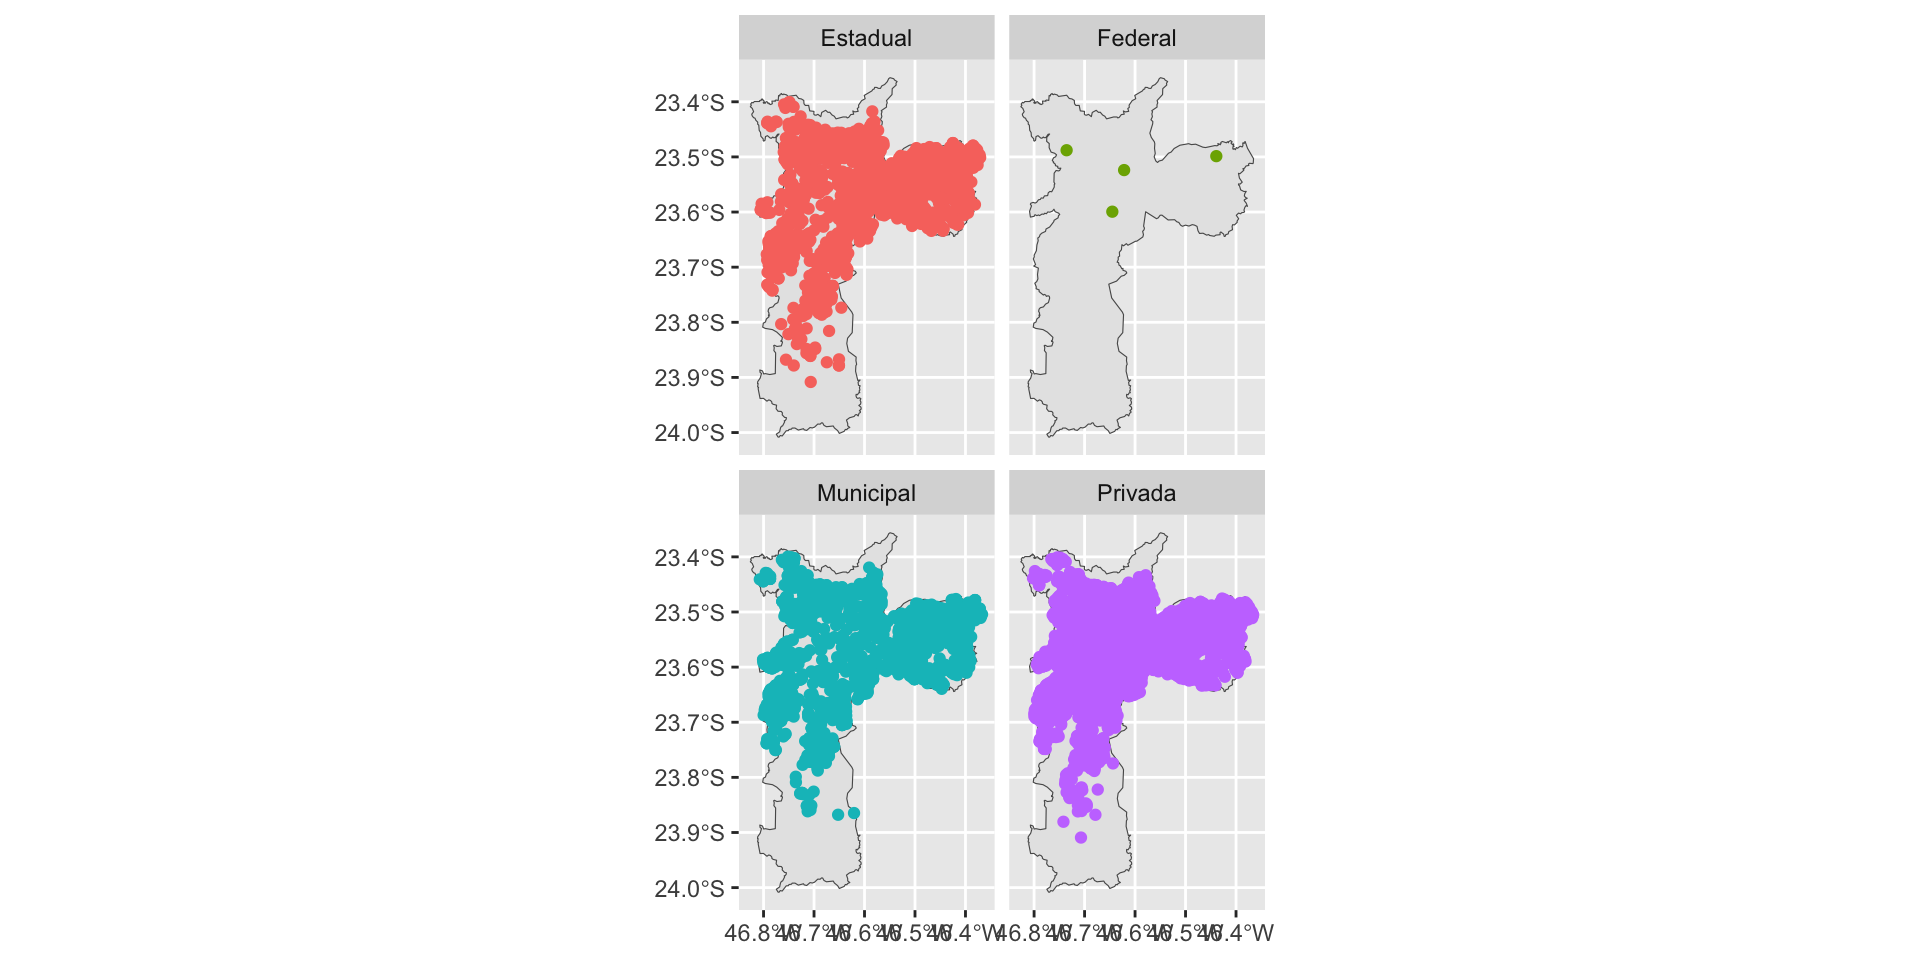
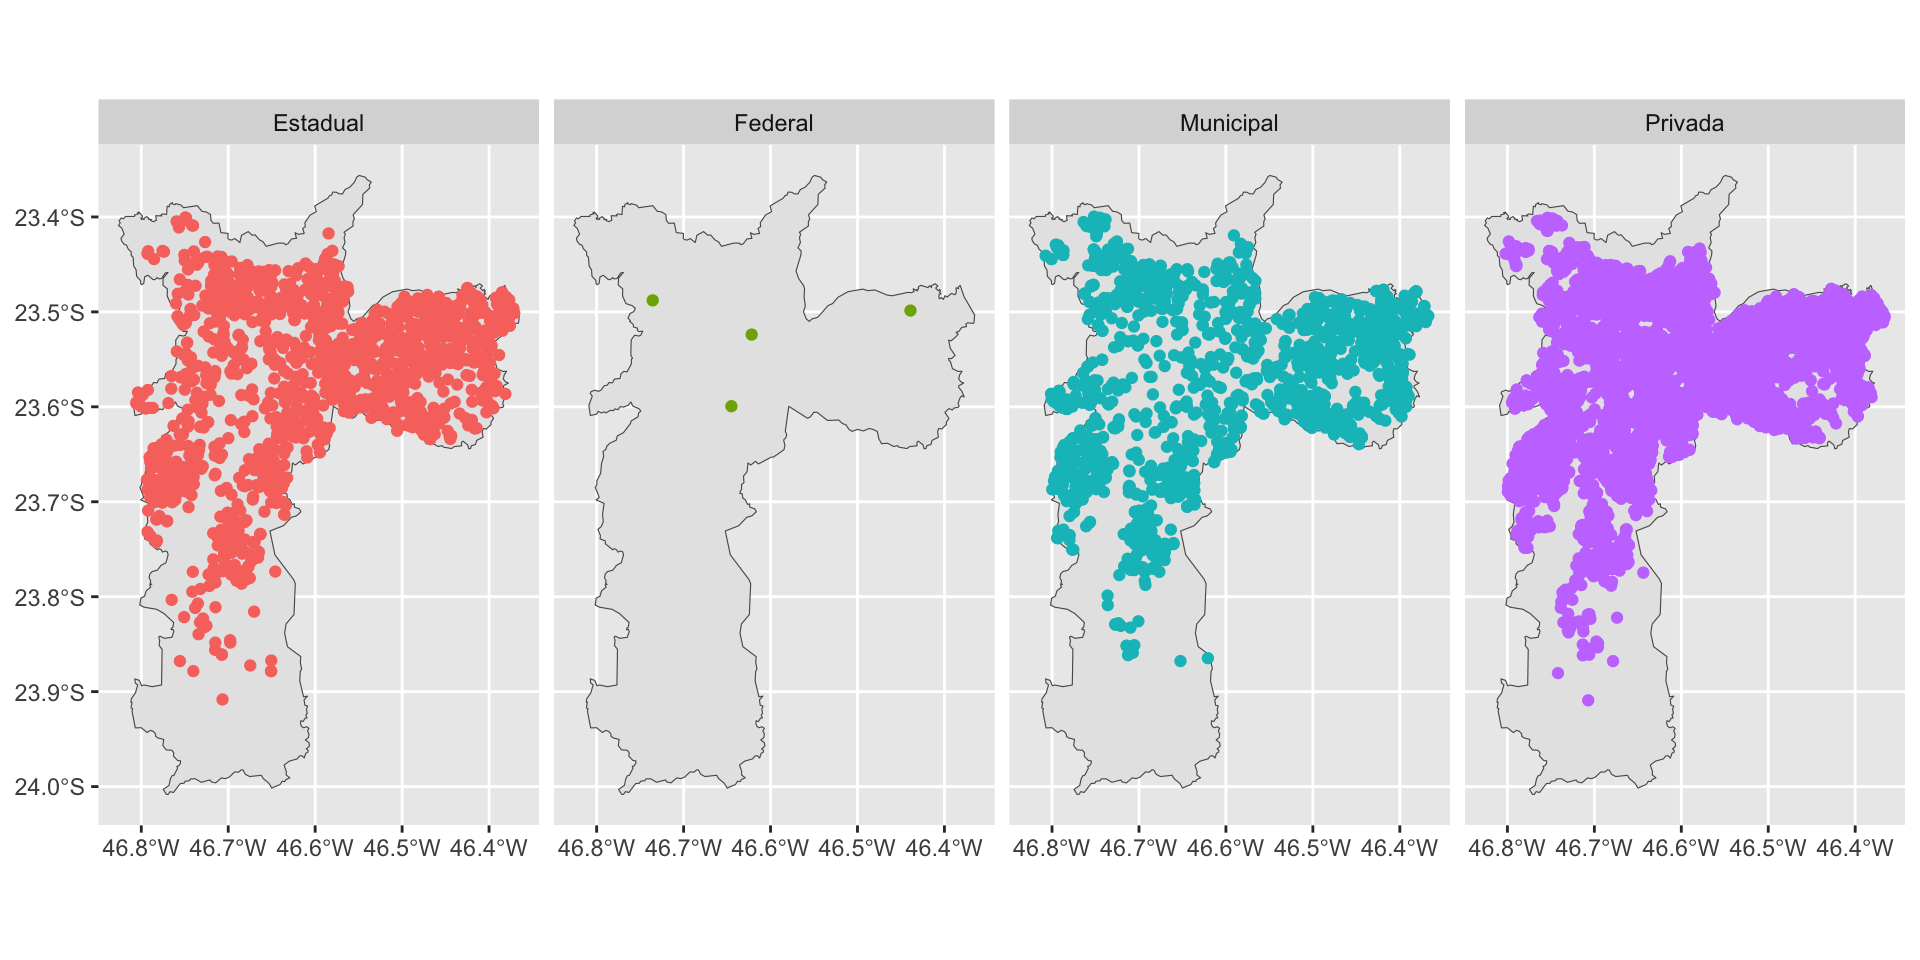
Built site for gh-pages

diff --git a/slide-geobr.html b/slide-geobr.html
@@ -559,9 +559,9 @@ $ geom         &lt;MULTIPOLYGON [°]&gt; MULTIPOLYGON (((-62.2462 -1..., MULTIPO
 <img data-src="img/codigo-muni.png" style="width:80.0%" class="r-stretch quarto-figure-center"></section>
 <section id="filtrando-o-município-de-são-paulo" class="slide level2">
 <h2>Filtrando o município de São Paulo</h2>
-<div class="cell" data-layout-align="center" data-hash="slide-geobr_cache/revealjs/unnamed-chunk-10_89d93c144517af4417250347a534fe57">
+<div class="cell" data-layout-align="center" data-hash="slide-geobr_cache/revealjs/unnamed-chunk-10_a42c22b06b56b6b3373ce5eae07ab7fa">
 <div class="sourceCode cell-code" id="cb12"><pre class="sourceCode numberSource r number-lines code-with-copy"><code class="sourceCode r"><span id="cb12-1"><a href="#cb12-1"></a>muni_sp <span class="ot">&lt;-</span> brasil_municipios <span class="sc">|&gt;</span> </span>
-<span id="cb12-2"><a href="#cb12-2"></a>  <span class="fu">filter</span>(code_muni <span class="sc">==</span> <span class="dv">3550308</span>) </span></code><button title="Copiar para a área de transferência" class="code-copy-button"><i class="bi"></i></button></pre></div>
+<span id="cb12-2"><a href="#cb12-2"></a>  dplyr<span class="sc">::</span><span class="fu">filter</span>(code_muni <span class="sc">==</span> <span class="dv">3550308</span>) </span></code><button title="Copiar para a área de transferência" class="code-copy-button"><i class="bi"></i></button></pre></div>
 </div>
 </section>
 <section id="visualizando-o-município-de-são-paulo" class="slide level2">
@@ -610,17 +610,17 @@ $ geom                           &lt;POINT [°]&gt; POINT (-63.85401 -8.758459),
 </section>
 <section id="escolas-no-município-de-são-paulo" class="slide level2">
 <h2>Escolas no município de São Paulo</h2>
-<div class="cell" data-layout-align="center" data-hash="slide-geobr_cache/revealjs/unnamed-chunk-14_7d526c78d8bf21c42fc8bfd671dff1f7">
+<div class="cell" data-layout-align="center" data-hash="slide-geobr_cache/revealjs/unnamed-chunk-14_a9bcc324dc702f8b497188b243b4b46d">
 <div class="sourceCode cell-code" id="cb17"><pre class="sourceCode numberSource r number-lines code-with-copy"><code class="sourceCode r"><span id="cb17-1"><a href="#cb17-1"></a>escolas_saopaulo <span class="ot">&lt;-</span> escolas_brasil <span class="sc">|&gt;</span> </span>
-<span id="cb17-2"><a href="#cb17-2"></a>  <span class="fu">filter</span>(abbrev_state <span class="sc">==</span> <span class="st">"SP"</span>,</span>
+<span id="cb17-2"><a href="#cb17-2"></a>  dplyr<span class="sc">::</span><span class="fu">filter</span>(abbrev_state <span class="sc">==</span> <span class="st">"SP"</span>,</span>
 <span id="cb17-3"><a href="#cb17-3"></a>         name_muni <span class="sc">==</span> <span class="st">"São Paulo"</span>) </span></code><button title="Copiar para a área de transferência" class="code-copy-button"><i class="bi"></i></button></pre></div>
 </div>
 </section>
 <section id="escolas-por-government_level" class="slide level2">
 <h2>Escolas por <code>government_level</code></h2>
-<div class="cell" data-layout-align="center" data-hash="slide-geobr_cache/revealjs/unnamed-chunk-15_0a5d37cfaf54300f61a473076c87658b">
+<div class="cell" data-layout-align="center" data-hash="slide-geobr_cache/revealjs/unnamed-chunk-15_3e608bd6477f57e67a512376883818ba">
 <div class="sourceCode cell-code" id="cb18"><pre class="sourceCode numberSource r number-lines code-with-copy"><code class="sourceCode r"><span id="cb18-1"><a href="#cb18-1"></a>escolas_saopaulo <span class="sc">|&gt;</span> </span>
-<span id="cb18-2"><a href="#cb18-2"></a>  <span class="fu">count</span>(government_level)</span></code><button title="Copiar para a área de transferência" class="code-copy-button"><i class="bi"></i></button></pre></div>
+<span id="cb18-2"><a href="#cb18-2"></a>  dplyr<span class="sc">::</span><span class="fu">count</span>(government_level)</span></code><button title="Copiar para a área de transferência" class="code-copy-button"><i class="bi"></i></button></pre></div>
 <div class="cell-output cell-output-stdout">
 <pre><code>Simple feature collection with 4 features and 2 fields
 Geometry type: MULTIPOINT
@@ -637,9 +637,15 @@ Geodetic CRS:  SIRGAS 2000
 </section>
 <section id="escolas-que-oferecem-ensino-médio" class="slide level2">
 <h2>Escolas que oferecem Ensino Médio</h2>
-<div class="cell" data-layout-align="center" data-hash="slide-geobr_cache/revealjs/unnamed-chunk-16_b358aa1833687bd1defb2f32c765f5bb">
-<div class="sourceCode cell-code" id="cb20"><pre class="sourceCode numberSource r number-lines code-with-copy"><code class="sourceCode r"><span id="cb20-1"><a href="#cb20-1"></a>ensino_medio_sao_paulo <span class="ot">&lt;-</span> escolas_saopaulo <span class="sc">|&gt;</span> </span>
-<span id="cb20-2"><a href="#cb20-2"></a>  <span class="fu">filter</span>(<span class="fu">str_detect</span>(education_level, <span class="st">"Ensino Médio"</span>))</span></code><button title="Copiar para a área de transferência" class="code-copy-button"><i class="bi"></i></button></pre></div>
+<div class="cell" data-layout-align="center" data-hash="slide-geobr_cache/revealjs/unnamed-chunk-16_7513d16664ff9f9acbfb6bce0cab0b47">
+<div class="sourceCode cell-code" id="cb20"><pre class="sourceCode numberSource r number-lines code-with-copy"><code class="sourceCode r"><span id="cb20-1"><a href="#cb20-1"></a>ensino_medio_sao_paulo <span class="ot">&lt;-</span> escolas_saopaulo <span class="sc">|&gt;</span></span>
+<span id="cb20-2"><a href="#cb20-2"></a>  dplyr<span class="sc">::</span><span class="fu">filter</span>(stringr<span class="sc">::</span><span class="fu">str_detect</span>(education_level, <span class="st">"Ensino Médio"</span>)) <span class="sc">|&gt;</span></span>
+<span id="cb20-3"><a href="#cb20-3"></a>  dplyr<span class="sc">::</span><span class="fu">group_by</span>(government_level) <span class="sc">|&gt;</span> </span>
+<span id="cb20-4"><a href="#cb20-4"></a>  dplyr<span class="sc">::</span><span class="fu">mutate</span>(</span>
+<span id="cb20-5"><a href="#cb20-5"></a>    <span class="at">numero_linhas =</span> dplyr<span class="sc">::</span><span class="fu">n</span>(),</span>
+<span id="cb20-6"><a href="#cb20-6"></a>    <span class="at">nome_label =</span> <span class="fu">paste0</span>(government_level, <span class="st">" (N="</span>, numero_linhas, <span class="st">")"</span>)</span>
+<span id="cb20-7"><a href="#cb20-7"></a>  ) <span class="sc">|&gt;</span> </span>
+<span id="cb20-8"><a href="#cb20-8"></a>dplyr<span class="sc">::</span><span class="fu">ungroup</span>()</span></code><button title="Copiar para a área de transferência" class="code-copy-button"><i class="bi"></i></button></pre></div>
 </div>
 </section></section>
 <section>
@@ -658,8 +664,8 @@ Geodetic CRS:  SIRGAS 2000
 <img data-src="slide-geobr_files/figure-revealjs/unnamed-chunk-17-1.png" width="960" class="r-stretch quarto-figure-center"></section>
 <section id="visualizando-as-escolas-e-o-município" class="slide level2">
 <h2>Visualizando as escolas e o município</h2>
-<div class="cell" data-layout-align="center" data-hash="slide-geobr_cache/revealjs/unnamed-chunk-18_fbb8629bc1e93e35c6c35c92ce93d455">
-<div class="sourceCode cell-code" id="cb22"><pre class="sourceCode numberSource r number-lines code-with-copy"><code class="sourceCode r"><span id="cb22-1"><a href="#cb22-1"></a>escolas_saopaulo <span class="sc">|&gt;</span> </span>
+<div class="cell" data-layout-align="center" data-hash="slide-geobr_cache/revealjs/unnamed-chunk-18_1e40878a2756b1f2b6f81fb38cd5c99f">
+<div class="sourceCode cell-code" id="cb22" data-code-line-numbers="3"><pre class="sourceCode numberSource r number-lines code-with-copy"><code class="sourceCode r"><span id="cb22-1"><a href="#cb22-1"></a>escolas_saopaulo <span class="sc">|&gt;</span> </span>
 <span id="cb22-2"><a href="#cb22-2"></a>  <span class="fu">ggplot</span>() <span class="sc">+</span></span>
 <span id="cb22-3"><a href="#cb22-3"></a>  <span class="fu">geom_sf</span>(<span class="at">data =</span> muni_sp) <span class="sc">+</span></span>
 <span id="cb22-4"><a href="#cb22-4"></a>  <span class="fu">geom_sf</span>()</span></code><button title="Copiar para a área de transferência" class="code-copy-button"><i class="bi"></i></button></pre></div>
@@ -668,8 +674,8 @@ Geodetic CRS:  SIRGAS 2000
 <img data-src="slide-geobr_files/figure-revealjs/unnamed-chunk-18-1.png" width="960" class="r-stretch quarto-figure-center"></section>
 <section id="visualizando-as-escolas-por-government_level" class="slide level2">
 <h2>Visualizando as escolas por <code>government_level</code></h2>
-<div class="cell" data-layout-align="center" data-hash="slide-geobr_cache/revealjs/unnamed-chunk-19_a7cc8008b86202f409565d2a080ea2db">
-<div class="sourceCode cell-code" id="cb23"><pre class="sourceCode numberSource r number-lines code-with-copy"><code class="sourceCode r"><span id="cb23-1"><a href="#cb23-1"></a>escolas_saopaulo <span class="sc">|&gt;</span> </span>
+<div class="cell" data-layout-align="center" data-hash="slide-geobr_cache/revealjs/unnamed-chunk-19_73ede11de911e605a766267b85c40506">
+<div class="sourceCode cell-code" id="cb23" data-code-line-numbers="4"><pre class="sourceCode numberSource r number-lines code-with-copy"><code class="sourceCode r"><span id="cb23-1"><a href="#cb23-1"></a>escolas_saopaulo <span class="sc">|&gt;</span> </span>
 <span id="cb23-2"><a href="#cb23-2"></a>  <span class="fu">ggplot</span>() <span class="sc">+</span></span>
 <span id="cb23-3"><a href="#cb23-3"></a>  <span class="fu">geom_sf</span>(<span class="at">data =</span> muni_sp) <span class="sc">+</span></span>
 <span id="cb23-4"><a href="#cb23-4"></a>  <span class="fu">geom_sf</span>(<span class="fu">aes</span>(<span class="at">color =</span> government_level))</span></code><button title="Copiar para a área de transferência" class="code-copy-button"><i class="bi"></i></button></pre></div>
@@ -678,30 +684,32 @@ Geodetic CRS:  SIRGAS 2000
 <img data-src="slide-geobr_files/figure-revealjs/unnamed-chunk-19-1.png" width="960" class="r-stretch quarto-figure-center"></section>
 <section id="visualizando-as-escolas-por-government_level-1" class="slide level2">
 <h2>Visualizando as escolas por <code>government_level</code></h2>
-<div class="cell" data-layout-align="center" data-hash="slide-geobr_cache/revealjs/unnamed-chunk-20_ab1b141d0fe6ddd8699e4a5989fb66fb">
-<div class="sourceCode cell-code" id="cb24"><pre class="sourceCode numberSource r number-lines code-with-copy"><code class="sourceCode r"><span id="cb24-1"><a href="#cb24-1"></a>escolas_saopaulo <span class="sc">|&gt;</span> </span>
+<div class="cell" data-layout-align="center" data-hash="slide-geobr_cache/revealjs/unnamed-chunk-20_b99aad3496b3cd49962511bb2721165b">
+<div class="sourceCode cell-code" id="cb24" data-code-line-numbers="5|4"><pre class="sourceCode numberSource r number-lines code-with-copy"><code class="sourceCode r"><span id="cb24-1"><a href="#cb24-1"></a>escolas_saopaulo <span class="sc">|&gt;</span> </span>
 <span id="cb24-2"><a href="#cb24-2"></a>  <span class="fu">ggplot</span>() <span class="sc">+</span></span>
 <span id="cb24-3"><a href="#cb24-3"></a>  <span class="fu">geom_sf</span>(<span class="at">data =</span> muni_sp) <span class="sc">+</span></span>
 <span id="cb24-4"><a href="#cb24-4"></a>  <span class="fu">geom_sf</span>(<span class="fu">aes</span>(<span class="at">color =</span> government_level), <span class="at">show.legend =</span> <span class="cn">FALSE</span>) <span class="sc">+</span></span>
-<span id="cb24-5"><a href="#cb24-5"></a>  <span class="fu">facet_wrap</span>(<span class="sc">~</span>government_level)</span></code><button title="Copiar para a área de transferência" class="code-copy-button"><i class="bi"></i></button></pre></div>
+<span id="cb24-5"><a href="#cb24-5"></a>  <span class="fu">facet_wrap</span>(<span class="sc">~</span>government_level, <span class="at">nrow =</span> <span class="dv">1</span>)</span></code><button title="Copiar para a área de transferência" class="code-copy-button"><i class="bi"></i></button></pre></div>
 
 </div>
 <img data-src="slide-geobr_files/figure-revealjs/unnamed-chunk-20-1.png" width="960" class="r-stretch quarto-figure-center"></section>
 <section id="visualizando-as-escolas-que-oferecem-ensino-médio" class="slide level2">
 <h2>Visualizando as escolas que oferecem Ensino Médio</h2>
-<div class="cell" data-layout-align="center" data-hash="slide-geobr_cache/revealjs/unnamed-chunk-21_537b143f05fea99cde95abf4b2921bdf">
-<div class="sourceCode cell-code" id="cb25"><pre class="sourceCode numberSource r number-lines code-with-copy"><code class="sourceCode r"><span id="cb25-1"><a href="#cb25-1"></a>ensino_medio_sao_paulo <span class="sc">|&gt;</span></span>
+<div class="cell" data-layout-align="center" data-hash="slide-geobr_cache/revealjs/unnamed-chunk-21_a201f4d1aeac699702892f99c0354e44">
+<div class="sourceCode cell-code" id="cb25" data-code-line-numbers="5"><pre class="sourceCode numberSource r number-lines code-with-copy"><code class="sourceCode r"><span id="cb25-1"><a href="#cb25-1"></a>ensino_medio_sao_paulo <span class="sc">|&gt;</span></span>
 <span id="cb25-2"><a href="#cb25-2"></a>  <span class="fu">ggplot</span>() <span class="sc">+</span></span>
 <span id="cb25-3"><a href="#cb25-3"></a>  <span class="fu">geom_sf</span>(<span class="at">data =</span> muni_sp) <span class="sc">+</span></span>
-<span id="cb25-4"><a href="#cb25-4"></a>  <span class="fu">geom_sf</span>(<span class="fu">aes</span>(<span class="at">color =</span> government_level, <span class="at">alpha =</span> <span class="fl">0.1</span>), <span class="at">show.legend =</span> <span class="cn">FALSE</span>) <span class="sc">+</span></span>
-<span id="cb25-5"><a href="#cb25-5"></a>  <span class="fu">facet_wrap</span>( <span class="sc">~</span> government_level)</span></code><button title="Copiar para a área de transferência" class="code-copy-button"><i class="bi"></i></button></pre></div>
+<span id="cb25-4"><a href="#cb25-4"></a>  <span class="fu">geom_sf</span>(<span class="fu">aes</span>(<span class="at">color =</span> government_level, </span>
+<span id="cb25-5"><a href="#cb25-5"></a>              <span class="at">alpha =</span> <span class="fl">0.1</span>), </span>
+<span id="cb25-6"><a href="#cb25-6"></a>          <span class="at">show.legend =</span> <span class="cn">FALSE</span>) <span class="sc">+</span></span>
+<span id="cb25-7"><a href="#cb25-7"></a>  <span class="fu">facet_wrap</span>(<span class="sc">~</span> government_level, <span class="at">nrow =</span> <span class="dv">1</span>)</span></code><button title="Copiar para a área de transferência" class="code-copy-button"><i class="bi"></i></button></pre></div>
 
 </div>
 <img data-src="slide-geobr_files/figure-revealjs/unnamed-chunk-21-1.png" width="960" class="r-stretch quarto-figure-center"></section>
 <section id="section" class="slide level2">
 <h2></h2>
 <p>Localização das escolas estaduais e escolas privadas no município de São Paulo, que oferecem Ensino Médio</p>
-<div class="cell" data-layout-align="center" data-hash="slide-geobr_cache/revealjs/unnamed-chunk-22_d3529a6bbb12a6ad43bd8cd6400858b7">
+<div class="cell" data-layout-align="center" data-hash="slide-geobr_cache/revealjs/unnamed-chunk-22_6f92437f7c3898413c756a7433a50289">
 <details>
 <summary>Ver código</summary>
 <div class="sourceCode cell-code" id="cb26"><pre class="sourceCode numberSource r number-lines code-with-copy"><code class="sourceCode r"><span id="cb26-1"><a href="#cb26-1"></a><span class="fu">library</span>(ggspatial)</span>
@@ -710,7 +718,7 @@ Geodetic CRS:  SIRGAS 2000
 <span id="cb26-4"><a href="#cb26-4"></a>  <span class="fu">ggplot</span>() <span class="sc">+</span></span>
 <span id="cb26-5"><a href="#cb26-5"></a>  <span class="fu">geom_sf</span>(<span class="at">data =</span> muni_sp) <span class="sc">+</span></span>
 <span id="cb26-6"><a href="#cb26-6"></a>  <span class="fu">geom_sf</span>(<span class="fu">aes</span>(<span class="at">color =</span> government_level, <span class="at">alpha =</span> <span class="fl">0.1</span>), <span class="at">show.legend =</span> <span class="cn">FALSE</span>) <span class="sc">+</span></span>
-<span id="cb26-7"><a href="#cb26-7"></a>  <span class="fu">facet_wrap</span>(<span class="sc">~</span> government_level) <span class="sc">+</span></span>
+<span id="cb26-7"><a href="#cb26-7"></a>  <span class="fu">facet_wrap</span>(<span class="sc">~</span> nome_label) <span class="sc">+</span></span>
 <span id="cb26-8"><a href="#cb26-8"></a>  <span class="fu">labs</span>(<span class="at">x =</span> <span class="st">"Longitude"</span>,</span>
 <span id="cb26-9"><a href="#cb26-9"></a>       <span class="at">y =</span> <span class="st">"Latitude"</span>) <span class="sc">+</span></span>
 <span id="cb26-10"><a href="#cb26-10"></a>  <span class="fu">scale_fill_viridis_d</span>(<span class="at">begin =</span> <span class="fl">0.2</span>, <span class="at">end =</span> <span class="fl">0.9</span>) <span class="sc">+</span></span>
